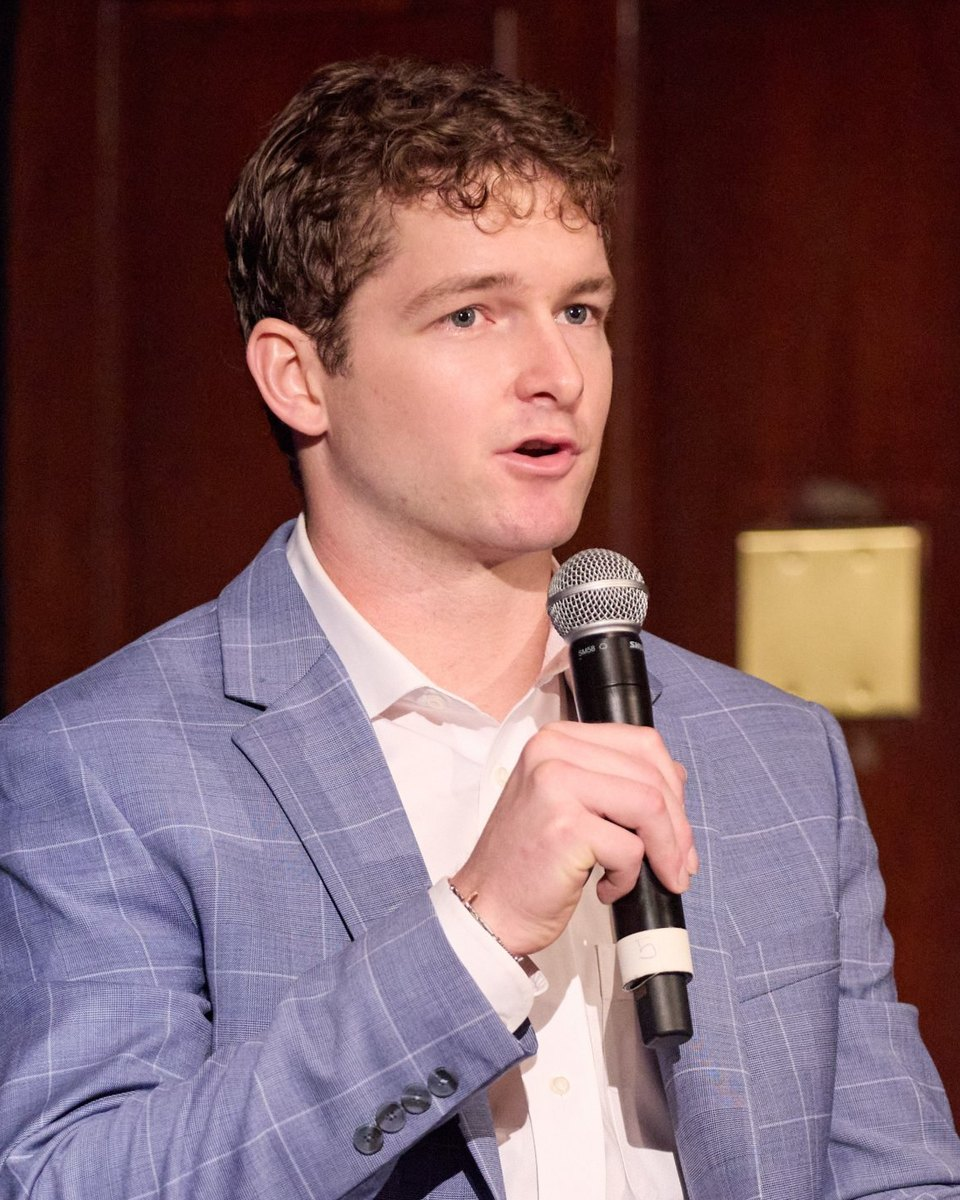
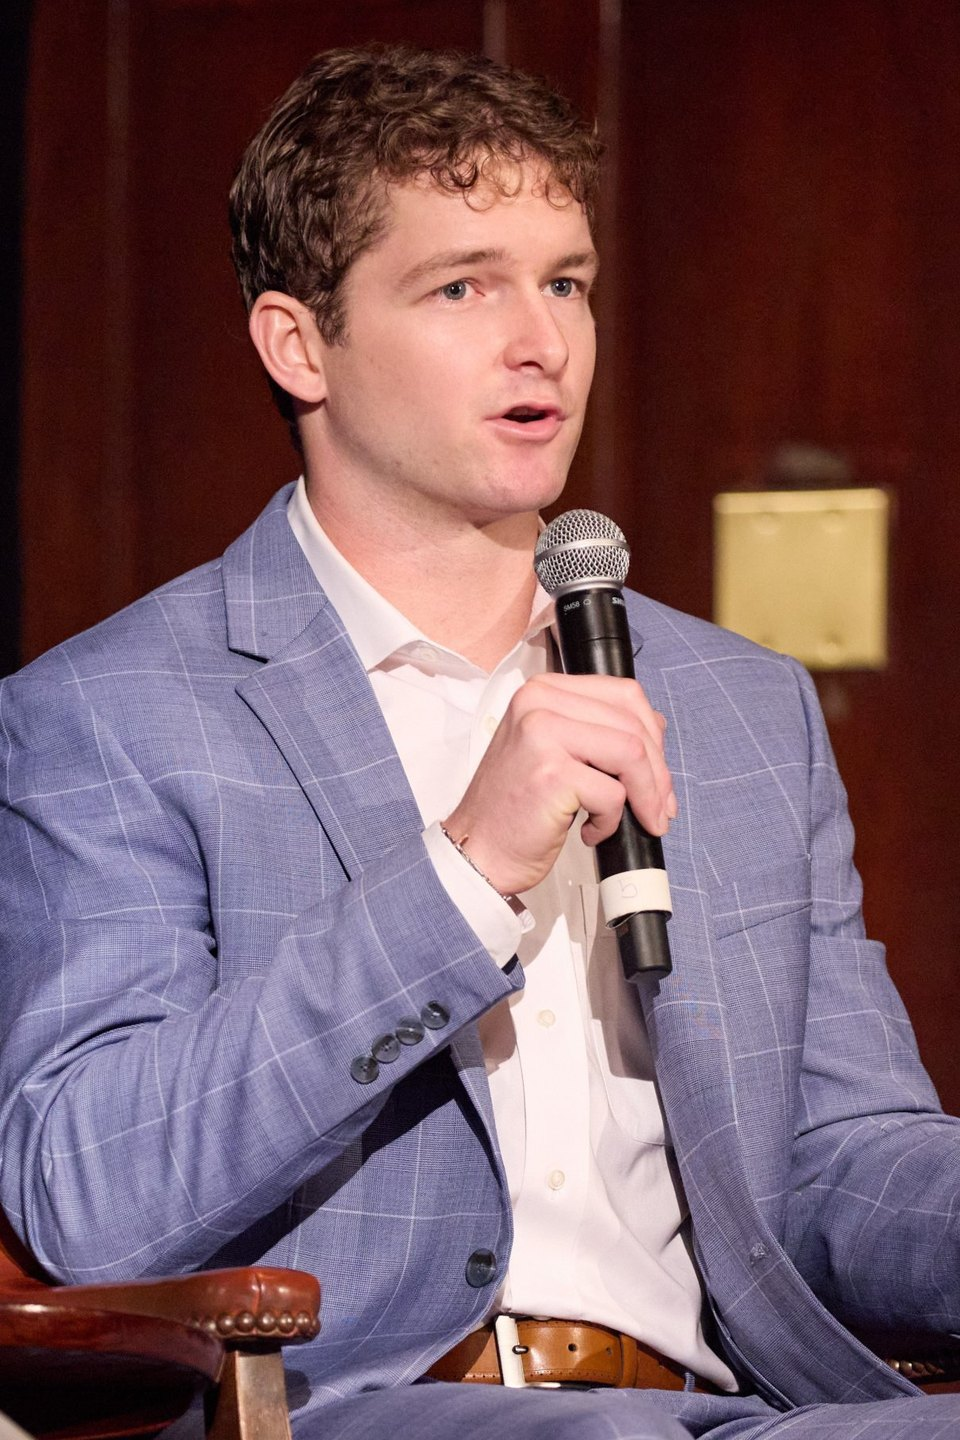
Add files via upload

diff --git a/index.html b/index.html
@@ -74,7 +74,7 @@ nav[aria-label="Sections"] a{padding:0 11px !important;font-size:12.5px !importa
 
   <!-- HERO -->
   <section style="position: relative; overflow: hidden; background: #E3F1FC">
-    <div class="sun" aria-hidden="true" style="position: absolute; top: -120px; right: -80px; width: 420px; height: 420px; border-radius: 50%; background: #FFF1C7"></div>
+    <div class="sun" aria-hidden="true" style="position: absolute; top: -120px; right: -80px; width: 420px; height: 420px; border-radius: 50%; background: #D4D8FA"></div>
     <div aria-hidden="true" style="position: absolute; bottom: 48px; left: -60px; width: 260px; height: 70px; border-radius: 999px; background: #F2F8FE"></div>
     <div style="position: relative; max-width: 1280px; margin: 0 auto; padding: 88px 32px 96px; display: flex; flex-wrap: wrap; gap: 56px; align-items: center">
       <div style="flex: 999 1 560px; min-width: 0; display: flex; flex-direction: column; gap: 24px">
@@ -90,8 +90,8 @@ nav[aria-label="Sections"] a{padding:0 11px !important;font-size:12.5px !importa
           <a class="btn" href="/assets/Henry-Scherb-Resume.pdf" target="_blank" rel="noopener" style="display: inline-flex; align-items: center; min-height: 52px; padding: 0 26px; box-sizing: border-box; border-radius: 999px; background: #FFFFFF; color: #12263A; text-decoration: none; font-weight: 600; font-size: 16px; border: 1px solid #CFE6FA">Download résumé</a>
         </div>
       </div>
-      <div style="flex: 1 1 300px; max-width: 380px; aspect-ratio: 4 / 5; border-radius: 28px; overflow: hidden; background: #FFFFFF; border: 6px solid #FFFFFF; box-sizing: border-box; box-shadow: 0 12px 32px rgba(18,38,58,.10)">
-        <img src="/assets/henry-scherb.jpg" alt="Henry Scherb speaking on a panel" style="display: block; width: 100%; height: 100%; object-fit: cover; object-position: 45% 20%; border-radius: 22px">
+      <div style="flex: 1 1 280px; max-width: 350px; aspect-ratio: 2 / 3; border-radius: 28px; overflow: hidden; background: #FFFFFF; border: 6px solid #FFFFFF; box-sizing: border-box; box-shadow: 0 12px 32px rgba(18,38,58,.10)">
+        <img src="/assets/henry-scherb.jpg" alt="Henry Scherb speaking on a panel" style="display: block; width: 100%; height: 100%; object-fit: cover; object-position: 50% 0%; border-radius: 22px">
       </div>
     </div>
   </section>
